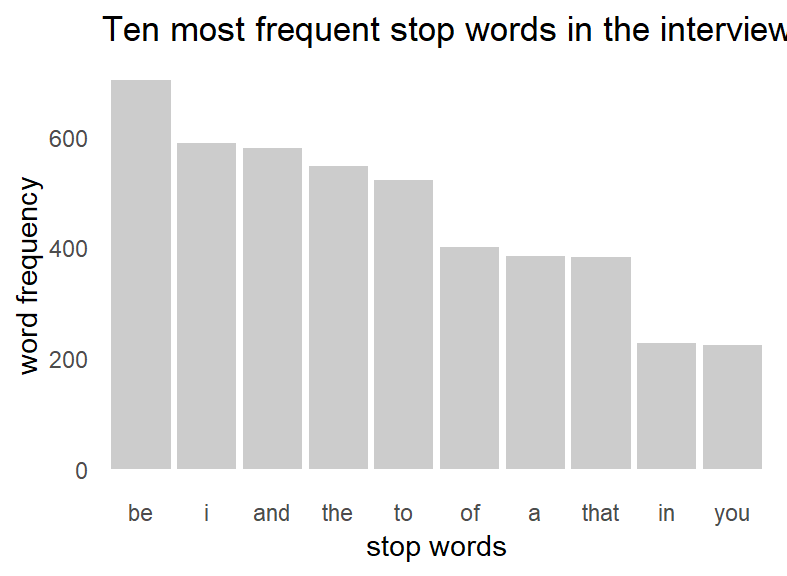
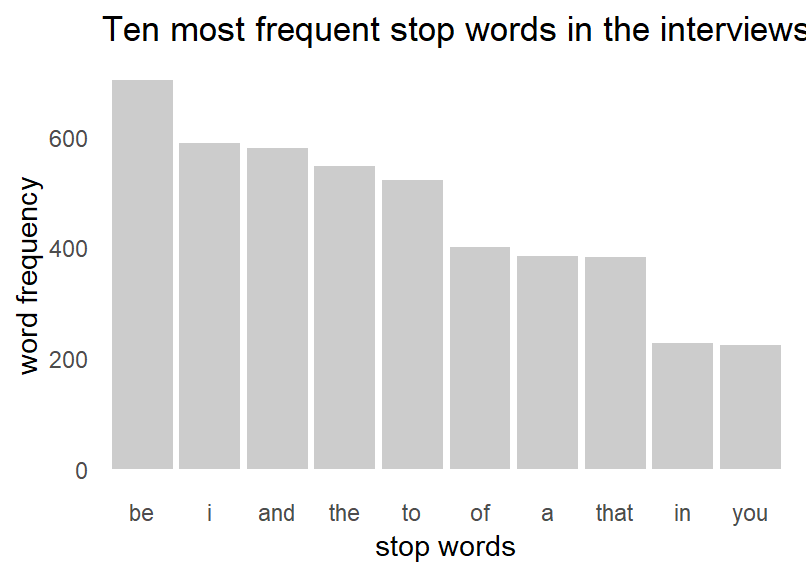
No code promise.

diff --git a/content/post/2019-05-08-swdchallenge-artisanal-data.html b/content/post/2019-05-08-swdchallenge-artisanal-data.html
@@ -29,7 +29,7 @@ output:
 
 <p>This post is a participation in <a href="http://www.storytellingwithdata.com/blog/2019/5/1/swdchallenge-artisanal-data">#SWDchallenge: artisanal data</a>.</p>
 <p>The story is about the similarity and contrast between words used by 12 data visualization professionals that appeared on the 14th episode of <a href="http://www.storytellingwithdata.com/podcast">#SWDpodcast</a>. I find a lot of wisdom and inspiration in this episode. <a href="http://www.storytellingwithdata.com/book">Storytelling with Data</a> (SWD) book has been on my shelf for over a year and it is this podcast episode that sparkled interest in me about data visualization and made me read the book in few days and start participating in data viz challenges.</p>
-<p>Analysis below uses simple but useful methods of text mining and statistics. It is performed in <a href="https://www.r-project.org/">R</a>, a free software environment for statistical computing and graphics. Data manipulation is powered by <a href="https://www.tidyverse.org/">tidyverse</a>, visualization by <code>ggplot2</code> package, text analysis by <code>tidytext</code>, <code>tm</code>, <code>textstem</code> and <code>qdap</code> packages and visualization of the dendrogram by <code>factoextra</code> package. The R code behind this blog post will be shared before May 13th.</p>
+<p>Analysis below uses simple but useful methods of text mining and statistics. It is performed in <a href="https://www.r-project.org/">R</a>, a free software environment for statistical computing and graphics. Data manipulation is powered by <a href="https://www.tidyverse.org/">tidyverse</a>, visualization by <code>ggplot2</code> package, text analysis by <code>tidytext</code>, <code>tm</code>, <code>textstem</code> and <code>qdap</code> packages and visualization of the dendrogram by <code>factoextra</code> package.</p>
 <div id="storyline" class="section level1">
 <h1>Storyline</h1>
 <p>The source of data is the <a href="https://docs.google.com/document/d/1S2_63MUbvQs7fxWQrcuCNSl03fmDl1Vr3FjNjnbWK14/edit#">transcript</a> of episode 14 of #SWDpodcast shared by SWD.</p>
@@ -494,7 +494,7 @@ learn
 </tbody>
 </table>
 <p>Ten most frequent stop words are:</p>
-<p><img src="/post/2019-05-08-swdchallenge-artisanal-data_files/figure-html/unnamed-chunk-7-1.png" width="393.6" style="display: block; margin: auto;" /></p>
+<p><img src="/post/2019-05-08-swdchallenge-artisanal-data_files/figure-html/unnamed-chunk-7-1.png" width="403.2" style="display: block; margin: auto;" /></p>
 <p>Stop words are about 60-80% of all words in the interviews<a href="#fn2" class="footnote-ref" id="fnref2"><sup>2</sup></a>. After removing them, the word count decreases from 14,930 to 2,690.</p>
 <p><img src="/post/2019-05-08-swdchallenge-artisanal-data_files/figure-html/unnamed-chunk-9-1.png" width="672" style="display: block; margin: auto;" /></p>
 </div>
@@ -524,7 +524,7 @@ learn
 <p><img src="/post/2019-05-08-swdchallenge-artisanal-data_files/figure-html/unnamed-chunk-13-1.png" width="672" /></p>
 <p>Interestingly, the most similar are three interviews by Jeffrey Shaffer, Andy Cotgreave and Steve Wexler - the three authors of the <a href="https://www.bigbookofdashboards.com/">Big Book of Dashboards</a>. Let’s see which words are common to two most similar interviews of Andy and Jeffrey: <em>dashboard, excel, storytelling, tableau</em>. No surprise!</p>
 <p><br></p>
-<p>If you enjoyed reading this #SWDchallenge blog post, or you have a suggestion for improving it, I will be happy to hear! Please leave a comment below.</p>
+<p>If you enjoyed reading this #SWDchallenge blog post, or you have a suggestion for improving it, I will be happy to hear! Please leave a comment below. No login required, just check “I’d rather post as a guest”.</p>
 </div>
 <div class="footnotes">
 <hr />
